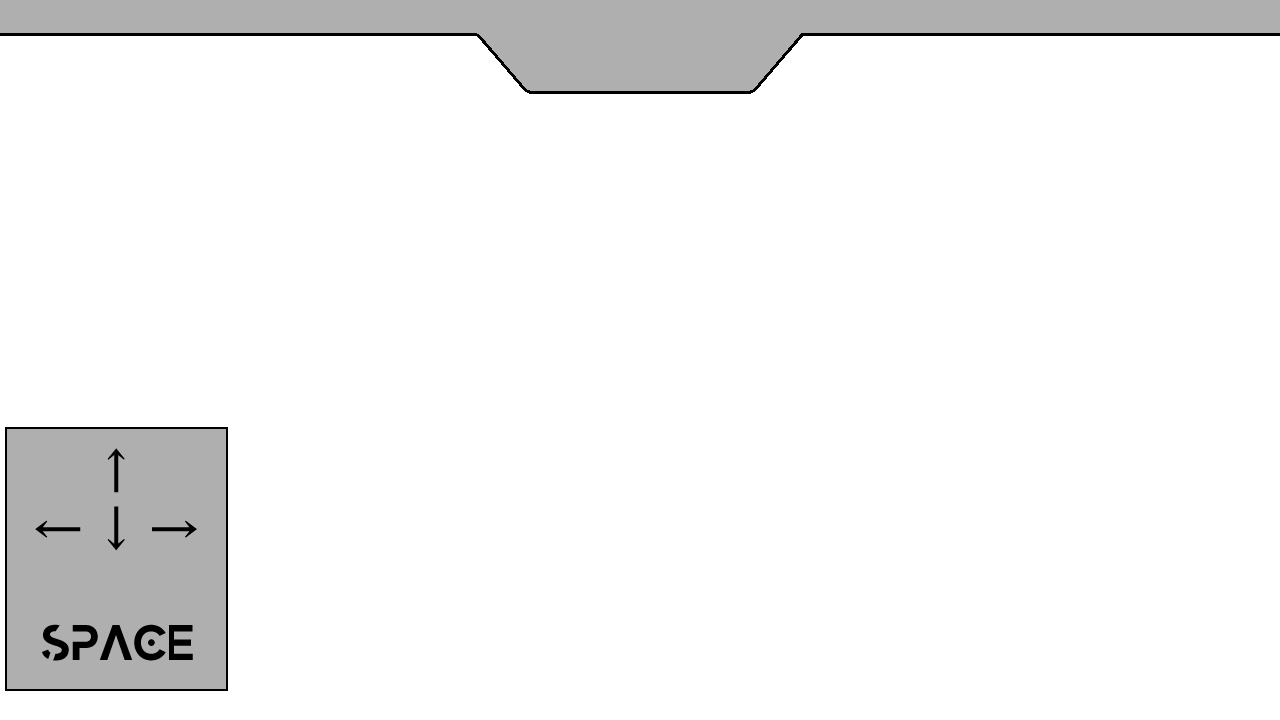
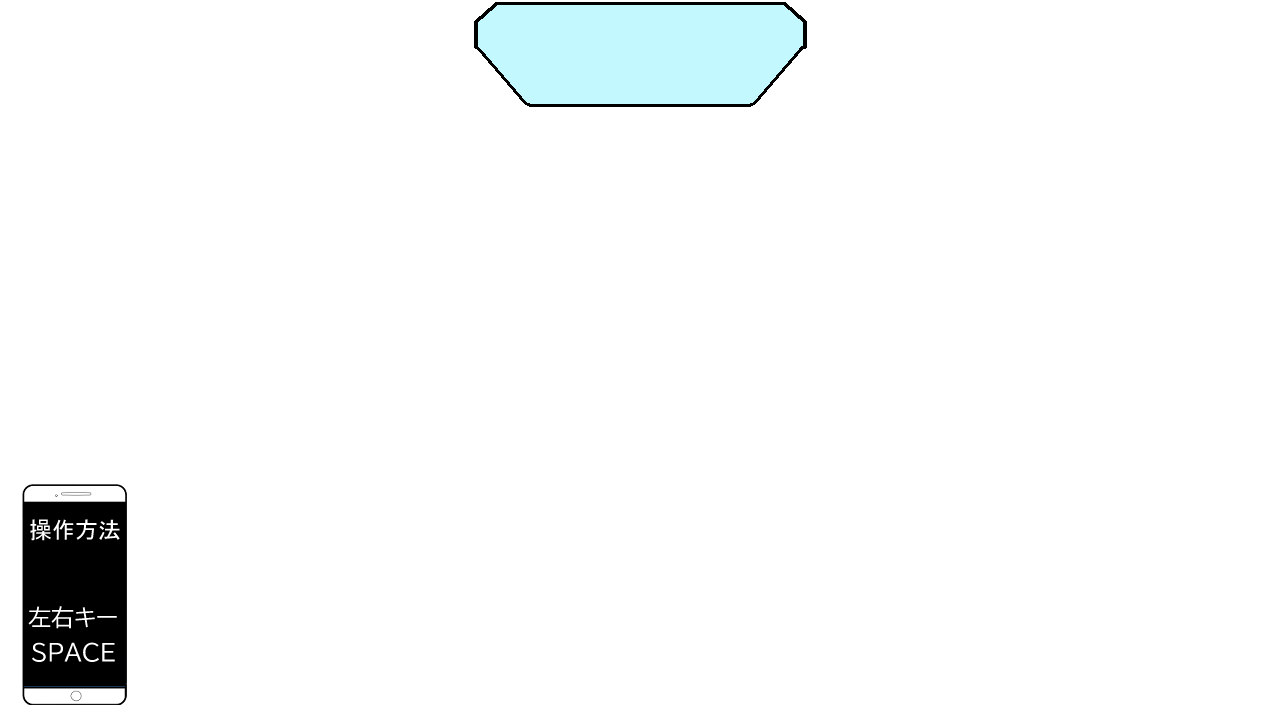
ゲームシーン画面描画

Changed region(s): [[0.0, 0.0, 1.0, 0.1528], [0.0, 0.5806, 0.1875, 0.9778]]

diff --git a/scene/GameScene.h b/scene/GameScene.h
@@ -15,6 +15,7 @@
 #include "Particle.h"
 #include"ResultCamera.h"
 #include"ObjectManager.h"
+#include "TextureManager.h"
 
 #include "sky.h"
 #include "door.h"
@@ -56,13 +57,15 @@ class GameScene {
 	void Draw();
 
   private: // メンバ変数
-	  ViewProjection* viewProjection= nullptr;
+	ViewProjection* viewProjection= nullptr;
 
 	DirectXCommon* dxCommon_ = nullptr;
 	Input* input_ = nullptr;
 	Audio* audio_ = nullptr;
 	DebugText* debugText_ = nullptr;
+	uint32_t textureHandle_ = 0;
 
+	std::unique_ptr<Sprite> sprite_;
 	std::unique_ptr<RailCamera> railCamera_;
 	std::unique_ptr<ResultCamera> resultCamera_;
 	std::unique_ptr<Player> player_;

diff --git a/scene/GameScene.cpp b/scene/GameScene.cpp
@@ -15,6 +15,10 @@ void GameScene::Initialize()
 {
 	using namespace MathUtility;
 
+	sprite_ = std::make_unique<Sprite>();
+	textureHandle_ = TextureManager::Load("gamescene.png");
+	sprite_.reset(Sprite::Create(textureHandle_, { 0,0 }));
+
 	player_ = std::make_unique<Player>();
 	railCamera_ = std::make_unique<RailCamera>();
 	resultCamera_ = std::make_unique<ResultCamera>();
@@ -230,6 +234,7 @@ void GameScene::Draw()
 		{
 			doorManager_->SpriteDraw();
 		}
+		sprite_->Draw();
 		break;
 	case GameScene::Scene::result:
 		resultScene_->SpriteDraw();
